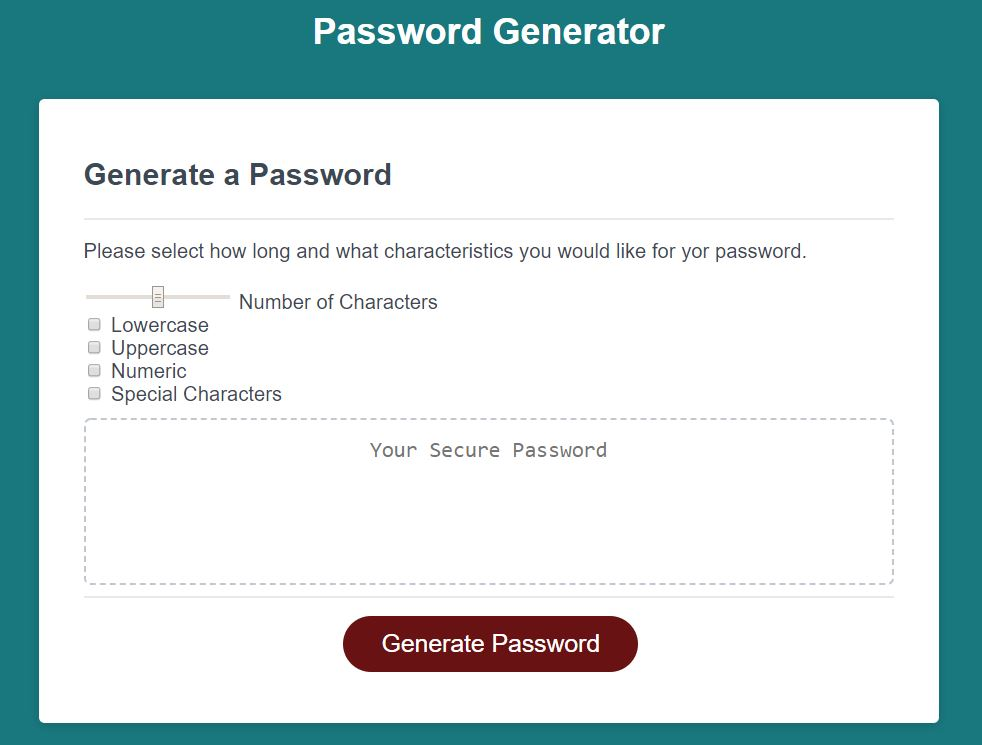
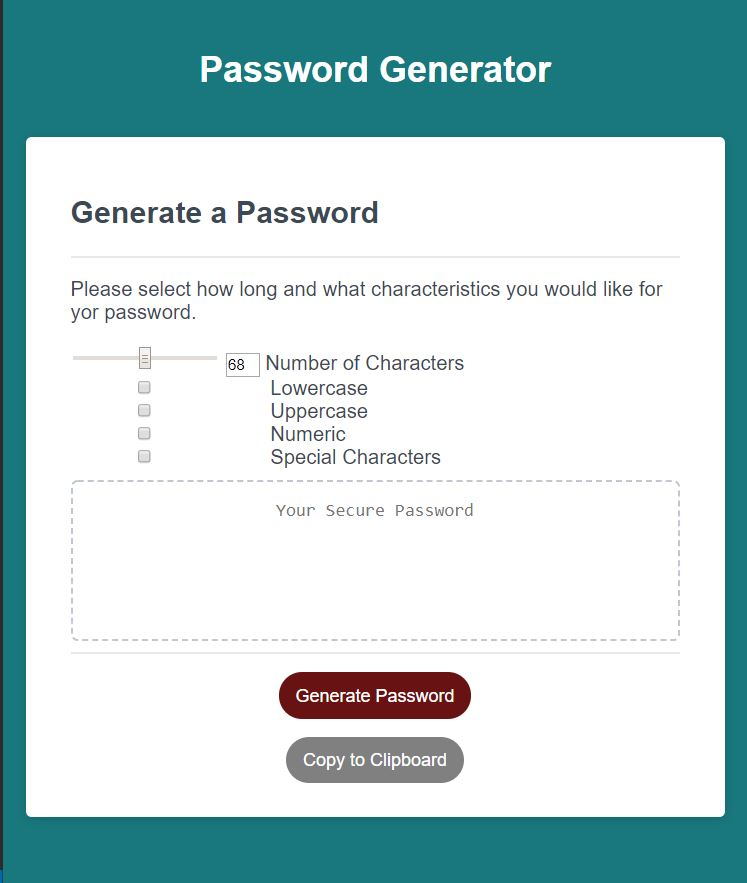
fixed password code and added copy to clipboard function

diff --git a/Develop/script.js b/Develop/script.js
@@ -13,6 +13,7 @@ var splchar = ["!", "@", "#", "$", "%", "^", "&", "*", "(", ")", "{", "}", "|", 
 var num = ["1", "2", "3", "4", "5", "6", "7", "8", "9", "0"];
 
 var allChar = [];
+var passwordStr = "";
 function updateTextInput(val) {
   document.getElementById('sldrange').value=val; 
 }
@@ -31,19 +32,12 @@ function generatePassword() {
     allChar.push(splchar)
   }
 
-  console.log(pwLength.value);
-
   for (var i = 0; i < pwLength.value; i++) {
-    var passwordStr = "";
     var randArrayValue = Math.floor(allChar.length * Math.random());
     var randCharValue = Math.floor(allChar[randArrayValue].length * Math.random());
     var randValue = allChar[randArrayValue][randCharValue];
 
-
     passwordStr += randValue;
-    console.log(passwordStr);
-    // console.log(typeof passwordStr);
-    // console.log(typeof randValue);
   }
   return passwordStr;
 }
@@ -59,3 +53,14 @@ function writePassword() {
 
 // Add event listener to generate button
 generateBtn.addEventListener("click", writePassword);
+
+function myFunction() {
+  var copyText = document.getElementById("password");
+
+  copyText.select();
+  copyText.setSelectionRange(0, 99999); 
+
+  document.execCommand("copy");
+
+  alert("Copied the text: " + copyText.value);
+}

diff --git a/Develop/style.css b/Develop/style.css
@@ -79,6 +79,7 @@ width: 30px;
   content: " ";
   display: block;
   clear: both;
+  text-align: center;
 }
 
 .btn {
@@ -96,7 +97,9 @@ width: 30px;
   text-align: center;
   cursor: pointer;
 }
-
+#copy{
+  background-color: grey;
+}
 button[disabled] {
   cursor: default;
   background: #c0c7cf;

diff --git a/Develop/index.html b/Develop/index.html
@@ -43,6 +43,8 @@
       </div>
       <div class="card-footer">
         <button id="generate" class="btn">Generate Password</button>
+        <br>
+        <button id ="copy" class = "btn" onclick="myFunction()">Copy to Clipboard</button>
       </div>
     </div>
   </div>
